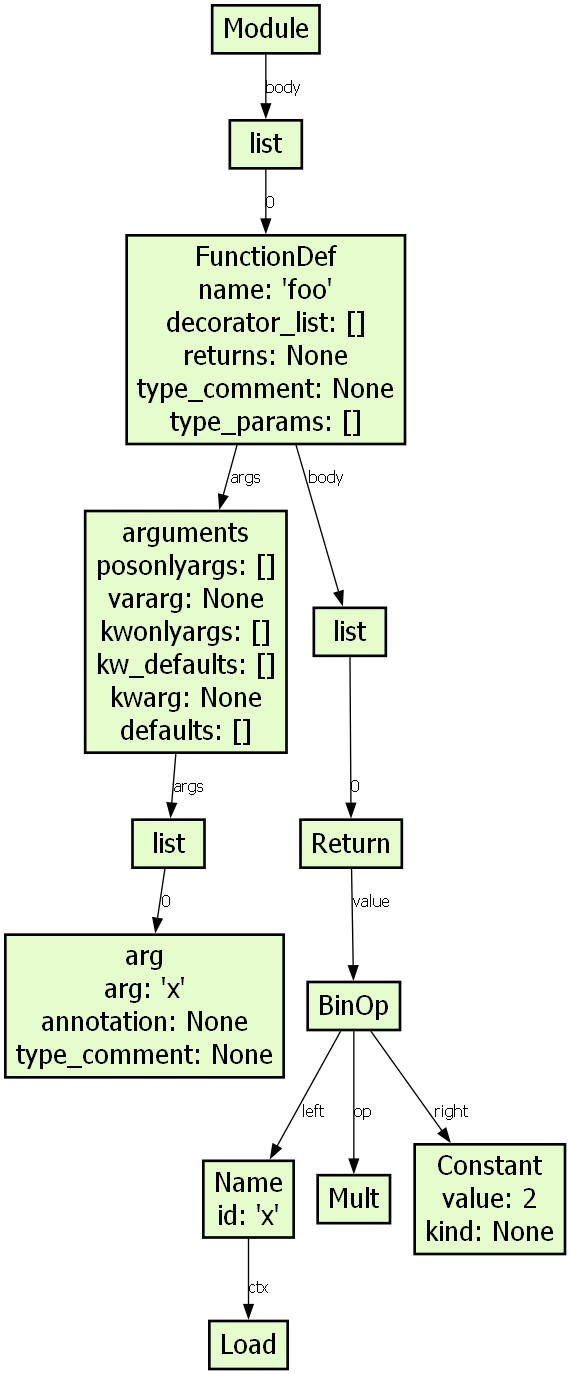
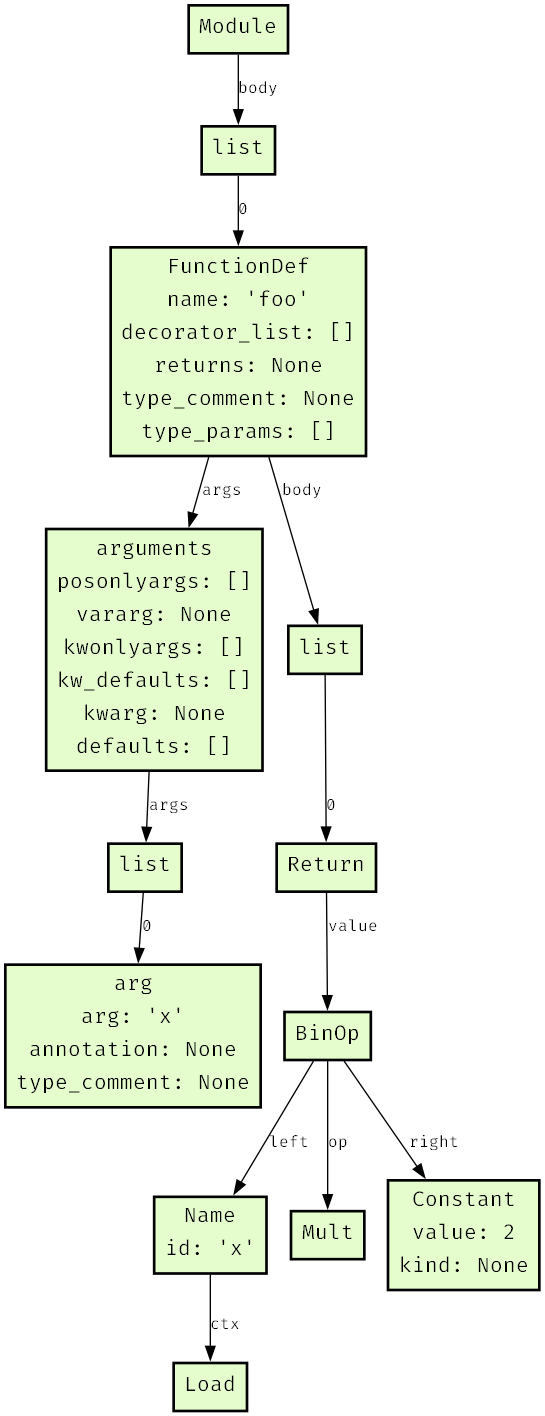
remove main.py

Changed region(s): [[0.0, 0.0, 0.9982, 1.0]]

diff --git a/src/dot.py b/src/dot.py
@@ -1,8 +1,8 @@
 import ast
 
-DOT_STYLE = ('node [fontname= "JetBrains Mono" fontsize=20\n'
+DOT_STYLE = ('node [fontname= "Fira Code" fontsize=16\n'
              'style=filled fillcolor="#E5FDCD" penwidth=2]'
-             'edge [fontname="JetBrains Mono" fontsize=12]')
+             'edge [fontname="Fira Code" fontsize=12]')
 
 
 def to_dot(graph, labels, edge_labels):

diff --git a/main.py b/main.py
@@ -1,0 +1,15 @@
+import os
+
+from src.dot import ast_to_dot
+from src.tree import get_file_content, get_ast_tree
+
+
+def main():
+    fp = os.path.join(os.path.dirname(os.path.abspath(__file__)), "src/test_file.py")
+    fc = get_file_content(fp)
+    ast_tree = get_ast_tree(fc)
+    print(ast_to_dot(ast_tree))
+
+
+if __name__ == '__main__':
+    main()
